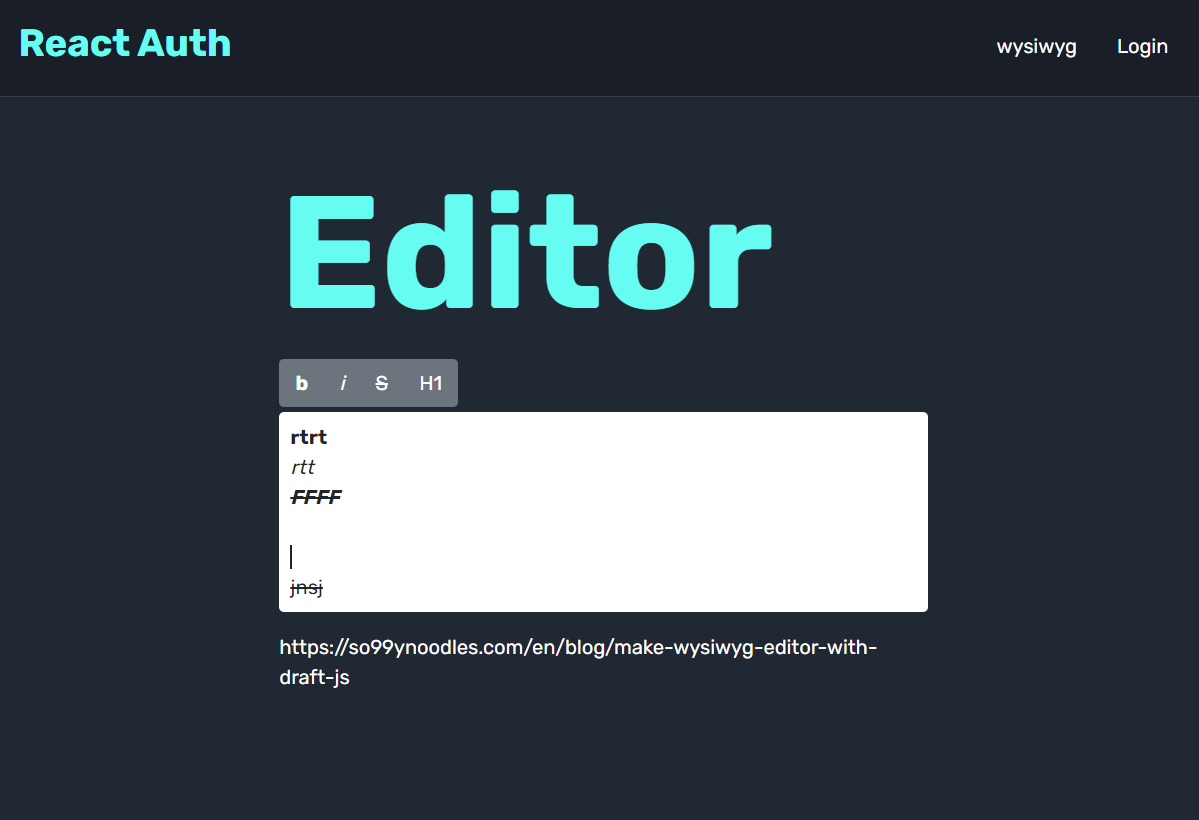
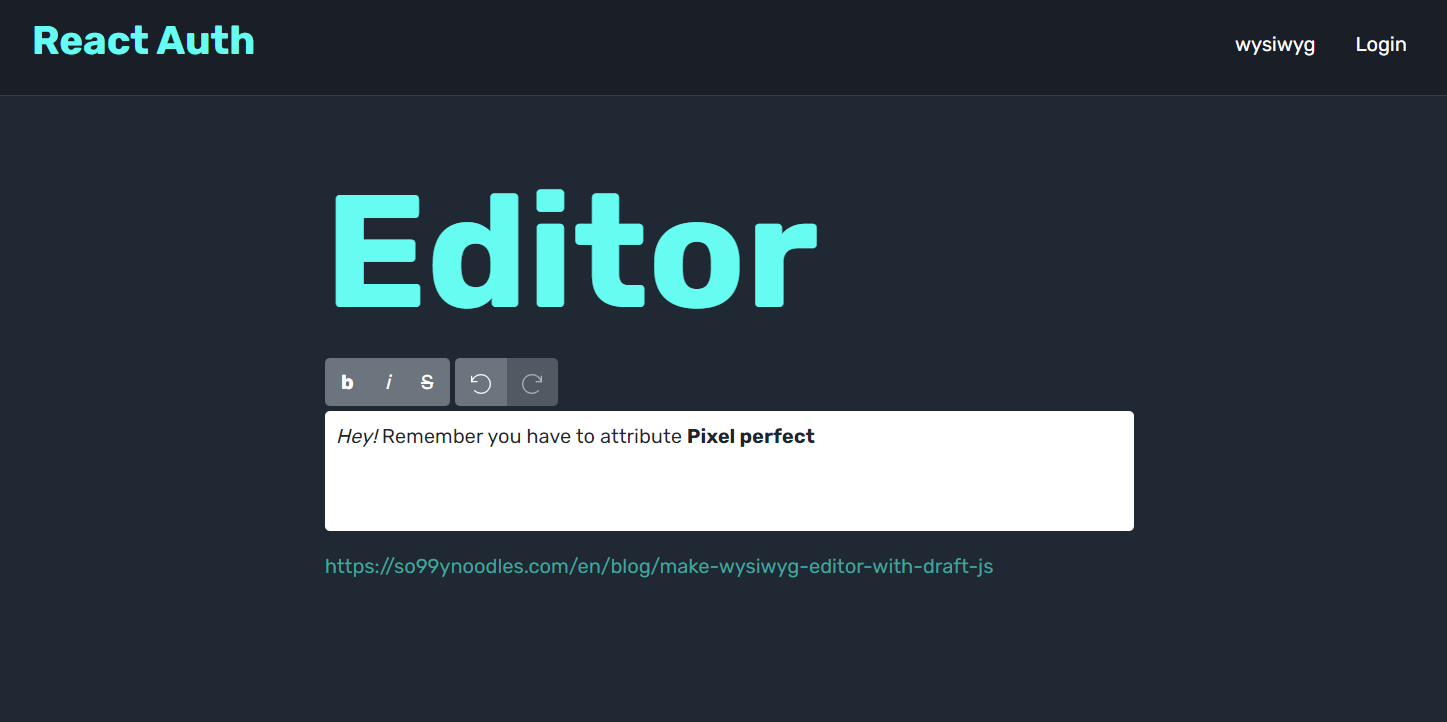
End s22

Changed region(s): [[0.216, 0.2133, 0.8023, 0.8532], [0.0, 0.0305, 0.216, 0.0914], [0.8332, 0.0305, 0.9875, 0.0914]]

diff --git a/s22-authentication/src/components/TextEditor/TextEditor.js b/s22-authentication/src/components/TextEditor/TextEditor.js
@@ -2,6 +2,9 @@ import React, { useState } from 'react'
 import { Editor, EditorState, RichUtils } from 'draft-js'
 import { ButtonGroup, Button } from 'react-bootstrap'
 import 'draft-js/dist/Draft.css'
+import { ReactComponent as Undo } from '../../img/undo.svg'
+import { ReactComponent as Redo } from '../../img/redo.svg'
+
 
 const TextEditor = () => {
     const [editorState, setEditorState] = useState(() =>
@@ -36,7 +39,7 @@ const TextEditor = () => {
         <section className='starting editor'>
             <h1 className='cblue'>Editor</h1>
 
-            <ButtonGroup className='mb-1'>
+            <ButtonGroup>
                 <Button
                     variant='secondary'
                     onClick={(e) => handleToggleClick(e, 'BOLD')}>
@@ -52,10 +55,35 @@ const TextEditor = () => {
                     onClick={(e) => handleToggleClick(e, 'STRIKETHROUGH')}>
                     <span className='strike'>S</span>
                 </Button>
+                {/* 
                 <Button
                     variant='secondary'
                     onClick={(e) => handleToggleClick(e, 'header-one')}>
                     H1
+                </Button>
+                <Button
+                    variant='secondary'
+                    onClick={(e) => handleToggleClick(e, 'ordered-list-item')}>
+                    ol
+                </Button>
+                 */}
+            </ButtonGroup>
+            <ButtonGroup>
+                <Button
+                    variant='secondary'
+                    disabled={editorState.getUndoStack().size <= 0}
+                    onClick={() =>
+                        setEditorState(EditorState.undo(editorState))
+                    }>
+                    <Undo className='icon'/>
+                </Button>
+                <Button
+                    variant='secondary'
+                    disabled={editorState.getRedoStack().size <= 0}
+                    onClick={() =>
+                        setEditorState(EditorState.redo(editorState))
+                    }>
+                    <Redo className='icon'/>
                 </Button>
             </ButtonGroup>
             <div onClick={focusEditor}>
@@ -66,7 +94,7 @@ const TextEditor = () => {
                     onChange={(editorState) => setEditorState(editorState)}
                 />
             </div>
-            <p className='cwhite mt-3'>
+            <p className='cgreen mt-3'>
                 https://so99ynoodles.com/en/blog/make-wysiwyg-editor-with-draft-js
             </p>
         </section>

diff --git a/s22-authentication/src/store/auth-context.js b/s22-authentication/src/store/auth-context.js
@@ -1,4 +1,6 @@
-import React, { useState } from 'react'
+import React, { useState, useEffect, useCallback } from 'react'
+
+let logoutTimer
 
 const AuthContext = React.createContext({
     token: '',
@@ -7,16 +9,68 @@ const AuthContext = React.createContext({
     logout: () => {}
 })
 
+const calculateRemainingTime = (expirationTime) => {
+    const currentTime = new Date().getTime()
+    const adjExpirationTime = new Date(expirationTime).getTime()
+
+    const remainingDuration = adjExpirationTime - currentTime
+
+    return remainingDuration
+}
+
+const retrieveStoredToken = () => {
+    const storedToken = localStorage.getItem('tokenKey')
+    const storedExpirationDate = localStorage.getItem('expirationTimeKey')
+
+    const remainingTime = calculateRemainingTime(storedExpirationDate)
+    if (remainingTime <= 60000) {
+        localStorage.removeItem('tokenKey')
+        localStorage.removeItem('expirationTimeKey')
+        return null
+    }
+
+    return {
+        token: storedToken,
+        duration: remainingTime
+    }
+}
+
 export const AuthContextProvider = (props) => {
-    const [token, setToken] = useState(null)
+    const tokenData = retrieveStoredToken()
+    let initialToken
+    if (tokenData) {
+        initialToken = tokenData.token
+    }
+    const [token, setToken] = useState(initialToken)
+
     const userIsLoggedIn = !!token
 
-    const loginHandler = (token) => {
+    const loginHandler = (token, expirationTime) => {
         setToken(token)
+        localStorage.setItem('tokenKey', token)
+        localStorage.setItem('expirationTimeKey', expirationTime)
+
+        const remainingTime = calculateRemainingTime(expirationTime)
+        // Auto logout
+        logoutTimer = setTimeout(logoutHandler, remainingTime)
+        // Test auto logout after 3s (it works)
+        //setTimeout(logoutHandler, 3000)
     }
-    const logoutHandler = () => {
+    const logoutHandler = useCallback(() => {
         setToken(null)
-    }
+        localStorage.removeItem('tokenKey')
+        localStorage.removeItem('expirationTimeKey')
+
+        if (logoutTimer) {
+            clearTimeout(logoutTimer)
+        }
+    }, [])
+
+    useEffect(() => {
+        if (tokenData) {
+            logoutTimer = setTimeout(logoutHandler, tokenData.duration)
+        }
+    }, [tokenData, logoutHandler])
 
     const contextValue = {
         token: token,

diff --git a/s22-authentication/src/index.css b/s22-authentication/src/index.css
@@ -24,6 +24,11 @@ a {
     text-decoration: none;
 }
 
+section {
+    position: relative;
+    z-index: 2;
+}
+
 .btn:focus {
     box-shadow: none !important;
 }
@@ -34,6 +39,17 @@ a {
     border-radius: 6px;
     box-shadow: 0 10px 10px rgb(0 0 0 / 20%);
     padding: 2rem;
+}
+
+.gradient {
+    position: absolute;
+    z-index: 1;
+    height: 60vw;
+    width: 60vw;
+    margin-left: 50%;
+    left: -30vw;
+    top: 15%;
+    background: radial-gradient(#304949, #1f2833 50%);
 }
 
 /* HEADER */

diff --git a/s22-authentication/src/components/Auth/AuthForm.js b/s22-authentication/src/components/Auth/AuthForm.js
@@ -56,7 +56,8 @@ const AuthForm = () => {
                 }
             })
             .then((data) => {
-                authCtx.login(data.idToken)
+                const expirationTime = new Date(new Date().getTime() + (+data.expiresIn * 1000))
+                authCtx.login(data.idToken, expirationTime.toISOString())
                 history.replace('/')
             })
             .catch((err) => {

diff --git a/s22-authentication/src/css/editor.css b/s22-authentication/src/css/editor.css
@@ -2,6 +2,16 @@
     text-align: left;
 }
 
+.editor.starting .btn-group {
+    margin: 0 .25rem .25rem 0;
+}
+
+.editor.starting .btn-group .icon {
+    height: 1rem;
+    width: auto;
+    fill: white;
+}
+
 .editor .DraftEditor-editorContainer {
     background-color: #fff;
     min-height: 6rem;
@@ -12,3 +22,4 @@
 span.strike {
     text-decoration: line-through;
 }
+

diff --git a/s22-authentication/src/App.js b/s22-authentication/src/App.js
@@ -12,6 +12,7 @@ function App() {
 
     return (
         <Layout>
+            <div className='gradient'></div>
             <Switch>
                 <Route path='/' exact>
                     <HomePage />
